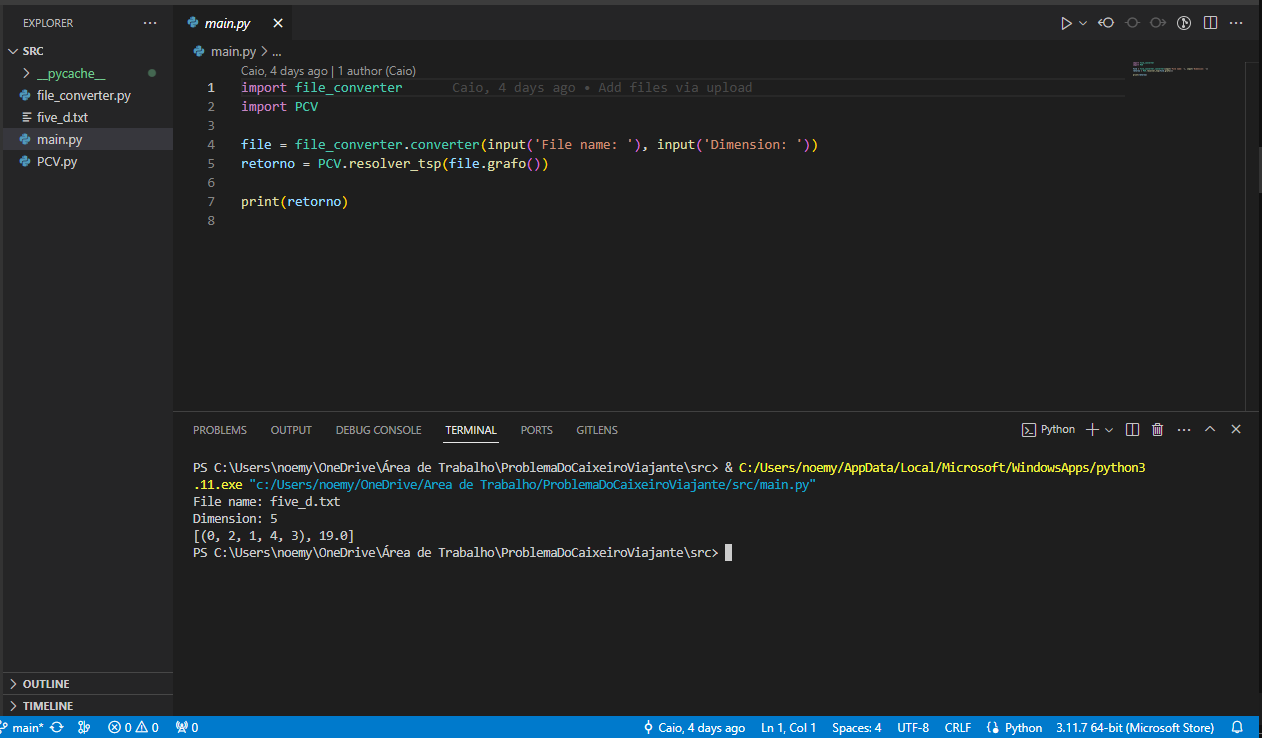
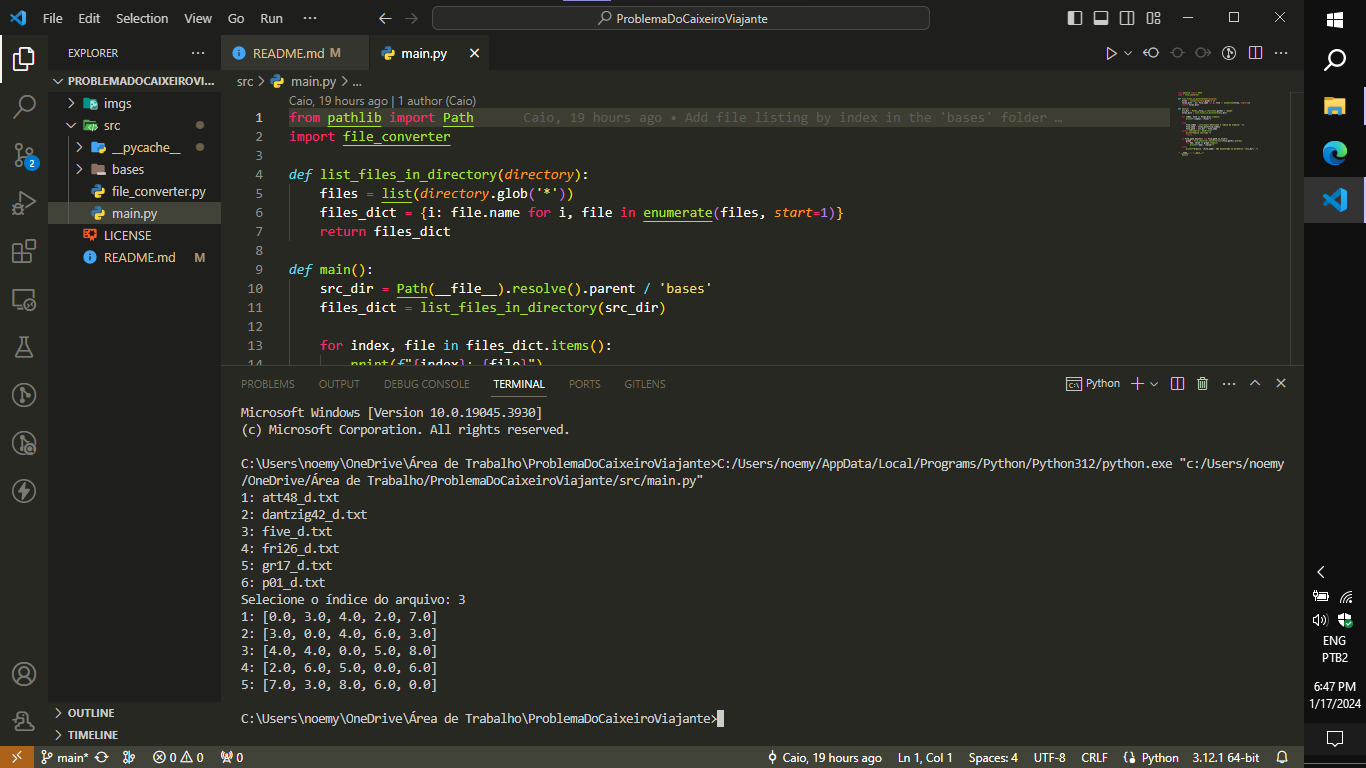
Update do README (17/01)

diff --git a/README.md b/README.md
@@ -4,12 +4,14 @@ O __Problema do Caixeiro-Viajante__ (__PCV__) é um problema que tenta determina
 
 Neste projeto será feito uma simulação deste problema a partir das bases de dados, __ATT48__, __DANTZIG42__, __FRI26__, __GR17__ e __P01__, fornecidas em [TSP Data for the Traveling Salesperson Problem](https://people.sc.fsu.edu/~jburkardt/datasets/tsp/tsp.html?authuser=2).
 
+__Observações:__ Até o dia 30-01-2024, este projeto consta somente na leitura e transformação das bases de dados em uma estrutura de dados, em específico num dicionário python.
+
 ---
 ### Instalação
 
 Nesta seção serão fornecidas intruções de como instalar este projeto em seu computador.
 
-1. Clique em __<> Code__ e então, clone este repositório (caso tenha git) ou faça o download do repositório como ZIP*.
+1. Clique em __<> Code__ e então, clone este repositório (caso tenha GIT) ou faça o download do repositório como ZIP*.
 
 <p align="center">
     <img src="./imgs/insta.png">
@@ -32,13 +34,11 @@ __VS Code__
 
 2. Na pasta do repositório, clique em __src__ e então no arquivo __main.py__
 
-3. Rode o programa (Obs: Você deve ter o Python instalado, assim como extensões para o mesmo)
+3. Rode o programa (Obs: Você deve ter o Python instalado, assim como as extensões do VS Code para o mesmo)
 
-4. Forneça o nome do arquivo que você quer utilizar, como de exemplo, o arquivo five_d.txt (inclua a extensão)
+4. Forneça o índice do arquivo que você quer utilizar
 
-5. Forneça a quantidade de cidades (o número de cidades pode ser encontrado no link fornecido na seção introdutória)
-
-6. O resultado será apresentado depois de um tempo
+5. O resultado será apresentado após a execução do passo anterior
 
 <p align="center">
     <img src="./imgs/vscode.png">
@@ -48,13 +48,11 @@ __Terminal__
 
 1. Abra o Terminal/PowerShell/Command Prompt
 
-2. Navegue até a pasta com o código __main.py__ e então, digite __python main.py__
+2. Navegue até o diretório com o código __main.py__ e então, digite __python main.py__
 
-3. Forneça o nome do arquivo que você quer utilizar, como de exemplo, o arquivo five_d.txt (inclua a extensão)
+3. Forneça o índice do arquivo que você quer utilizar
 
-4. Forneça a quantidade de cidades (o número de cidades pode ser encontrado no link fornecido na seção introdutória)
-
-5. O resultado será apresentado depois de um tempo
+4. O resultado será apresentado depois da execução do passo anterior
 
 <p align="center">
     <img src="./imgs/term.png">
